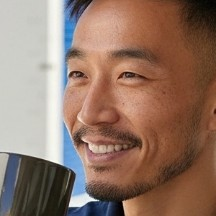
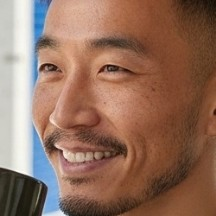
Point the homepage testimonials at the shared data
Steve's portrait had changed on fifteen pages and not on the homepage —
the one page the client was actually looking at.

gQuotes() carried its own hardcoded copy of the same three testimonials,
names and avatars included, so editing content.js changed every page that
read from it and silently missed this one. It reads from C.TESTIMONIALS
now, so the next change to that data lands everywhere.

Also recropped the avatar: at 54px the first crop showed the edge of his
coffee mug as a dark blob and sat the face off-centre.

diff --git a/build/build.js b/build/build.js
@@ -3312,11 +3312,20 @@ function gPriceMatch() {
 
 /* ---- Testimonials ---- */
 function gQuotes() {
-  const items = [
-    ["Finally, a storage company that doesn&rsquo;t rip you off. Worked out the maths and Portabox was 40% cheaper per cubic metre.", "Bridget", "Adelaide", "person-bridget-avatar.jpg"],
-    ["The hydraulic system is brilliant. My furniture arrived without a scratch. Wendy and the team were brilliant.", "Dean", "Sydney to Brisbane", "person-dean-avatar.jpg"],
-    ["Love that I have the only keys. My stuff in my front yard and I can jump in to sort it out whenever I need to.", "Steve", "Melbourne", "person-steve-avatar.jpg"],
-  ];
+  /* Read from content.js rather than kept here. This list was a second,
+     hardcoded copy of the same three testimonials, so changing the data
+     changed every page except the homepage — which is the one page that
+     matters most and the one the client was looking at. Quotes stay as this
+     section had them; the names, places and portraits now come from one
+     place, so the next change lands everywhere. */
+  const items = C.TESTIMONIALS.map((t, n) => [
+    [
+      "Finally, a storage company that doesn&rsquo;t rip you off. Worked out the maths and Portabox was 40% cheaper per cubic metre.",
+      "The hydraulic system is brilliant. My furniture arrived without a scratch. Wendy and the team were brilliant.",
+      "Love that I have the only keys. My stuff in my front yard and I can jump in to sort it out whenever I need to.",
+    ][n] || t.q,
+    t.n, t.p, t.img.replace(".png", "-avatar.jpg"),
+  ]);
   return `
 <section class="g-band g-band--stone">
   <div class="g-wrap">

diff --git a/site/index.html b/site/index.html
@@ -704,7 +704,7 @@
       <figure class="g-quote g-rise" style="--d:180ms">
         <blockquote>&ldquo;Love that I have the only keys. My stuff in my front yard and I can jump in to sort it out whenever I need to.&rdquo;</blockquote>
         <figcaption>
-          <img src="/assets/img/person-steve-avatar.jpg" alt="" loading="lazy" width="52" height="52">
+          <img src="/assets/img/person-steve-v2-avatar.jpg" alt="" loading="lazy" width="52" height="52">
           <span class="g-who"><b>Steve</b><span>Melbourne</span></span>
         </figcaption>
       </figure>
